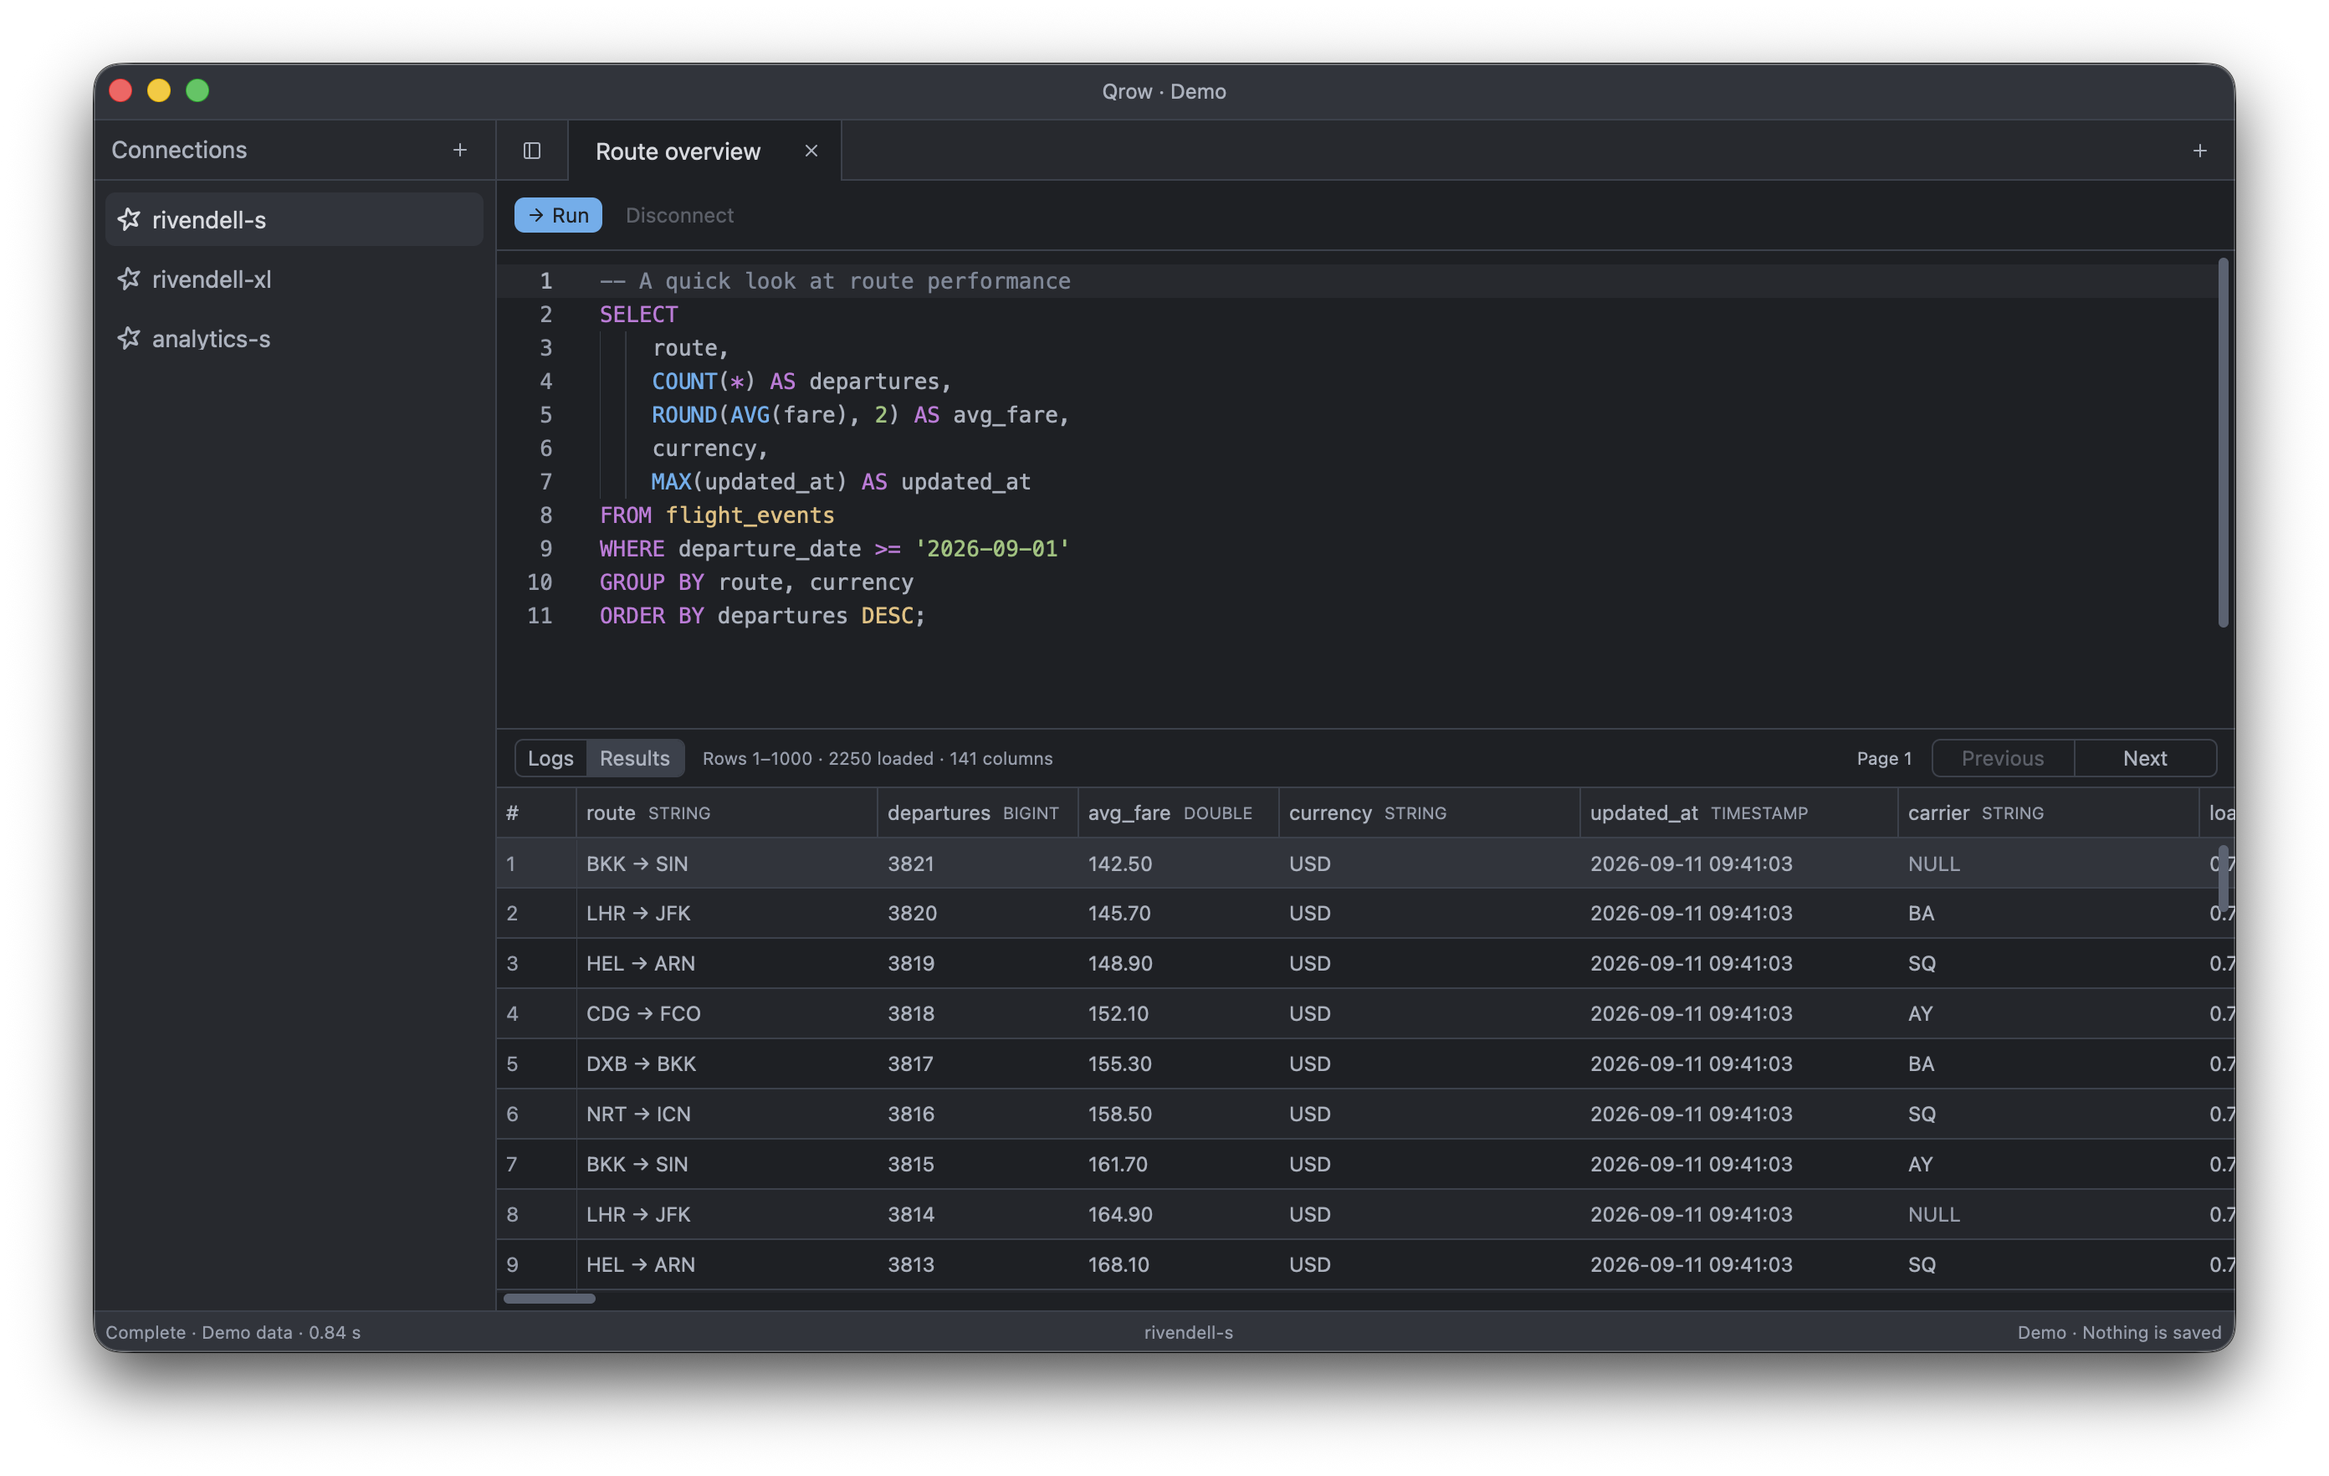
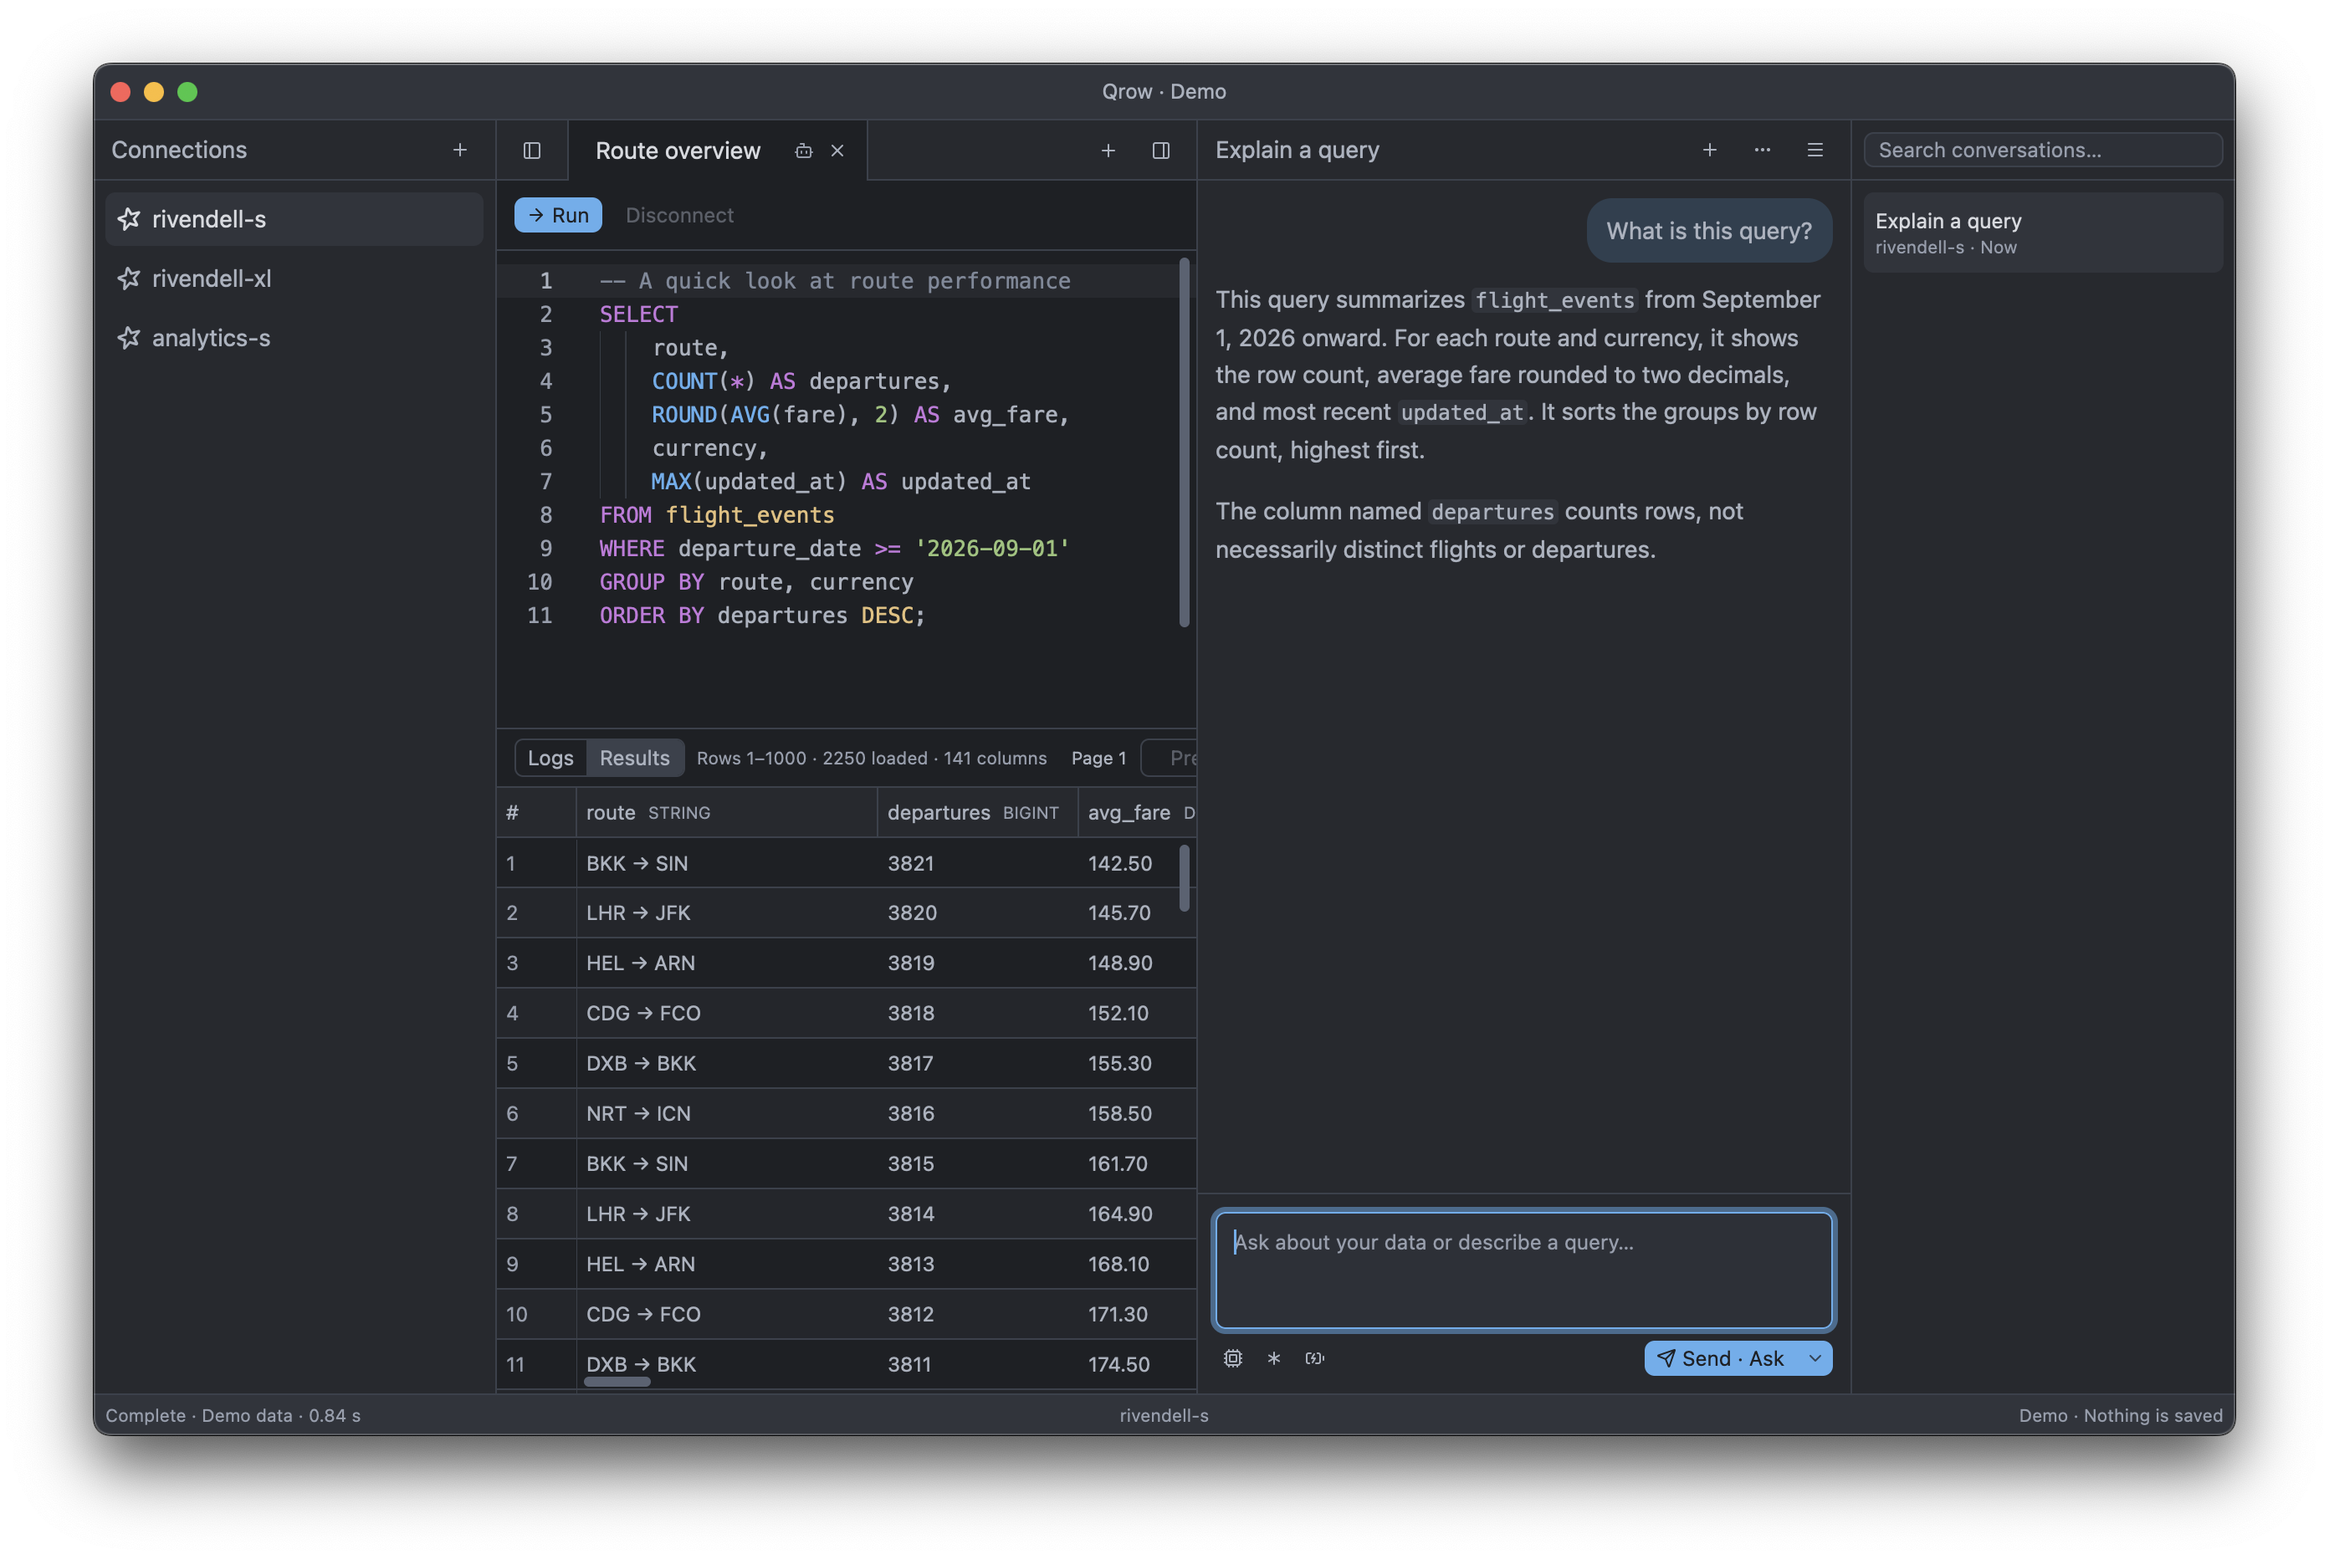
chore: bump to 0.2.0

diff --git a/README.md b/README.md
@@ -25,14 +25,17 @@ model or the other. I bring in my direction, general coding expertise, and produ
 
 Qrow is heavily inspired by DataGrip and [Zed](https://zed.dev/). It's built using [GPUI](https://gpui.rs/), which is a UI framework by Zed's creators.
 
-## Optional AI assistant
+## Assistant
 
 Qrow can open an AI assistant beside your query tab. It uses a separately
-installed Codex program and your Codex sign-in. The feature is off by default.
-Enable it in **Qrow → Settings… → Assistant**. Qrow can ask before an assistant
-query runs, or run assistant queries automatically. Each conversation writes SQL
+installed Codex executable and your Codex sign-in, so you can use your OpenAI subscription.
+
+The feature is off by default. Enable it in **Qrow → Settings… → Assistant**. Qrow can ask before an assistant
+query runs, or run assistant queries automatically. 
+
+Each conversation writes SQL
 in its own query tab, so you can work on it together. Several conversations can
-work at the same time. See [AI assistant](docs/assistant.md)
+work at the same time. See [assistant](docs/assistant.md)
 for setup, data sharing, and query safety.
 
 ## Metrics
@@ -55,6 +58,7 @@ Qrow is a personal tool, tailored to my setup and my needs, so:
   no Intel or other-OS build.
 - **Core functionality first.** 90% percent of the work I do in such an app is choosing a connection, writing a query, running it, and seeing results. That is what Qrow is focused on.
 - **Not notarized**. Certification and notarization of macOS apps requires Apple Developer ID which is a paid membership. As Qrow is a mostly a personal tool that is early in development, I'm not planning to pay for that membership yet. For now, releases are distributed through a custom Homebrew tap, and macOS may show a Gatekeeper warning on first launch.
+- **Codex only**. For now, assistant can only be powered by Codex. Claude support is planned.
 
 ## Installation
 

diff --git a/docs/README.md b/docs/README.md
@@ -14,3 +14,4 @@ For build and launch instructions, see the [project README](../README.md).
 | [Architecture](architecture.md) | Understand component responsibilities and data flow. |
 | [Development](development.md) | Set up local checks, use hooks, and maintain dependencies. |
 | [End-to-end testing](end-to-end-testing.md) | Run tests with real servers and the native application. |
+| [Assistant](assistant.md) | Architecture and features of AI-based assistant. |

diff --git a/docs/assistant.md b/docs/assistant.md
@@ -1,4 +1,4 @@
-# AI assistant
+# Assistant
 
 The optional AI assistant helps you write and run SQL in Qrow. Each
 conversation has its own query tab. You and the assistant work in the same
